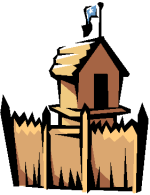
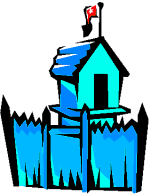
Put other team base marker on the map, new base images

diff --git a/mapgame.js b/mapgame.js
@@ -6,13 +6,23 @@ console.log('loading js file');
 var map; // the map canvas from the Google Maps v3 javascript API
 var mapZoomLevel = 18;
 var mapData; // the level data for this map (base locations)
+
 var markerLatLng;
 var itemMarker = null;
 var itemObject = null;
 var baseMarker = null;
+var otherTeamBase = null;
+// the otherTeamBase object will be of this form:
+// {
+//   location: <location_object>,
+//   marker: <marker_object>
+// }
+
 // default to the grand canyon, but this will be loaded from a map file
 var mapCenter = new google.maps.LatLng(36.151103, -113.208565);
 var baseLatLng = mapCenter; // for now the base always starts at the center of the map
+
+
 // for time-based game loop
 var now;
 var dt = 0;
@@ -99,8 +109,20 @@ var baseIcon = {
   anchor: new google.maps.Point(75, 120)
 };
 
+var otherTeamBaseIcon = {
+  url: 'images/opponent_fort.png',
+  origin: new google.maps.Point(0, 0),
+  anchor: new google.maps.Point(75, 120)
+};
+
 var baseTransparentIcon = {
   url: 'images/fort_transparent.png',
+  origin: new google.maps.Point(0, 0),
+  anchor: new google.maps.Point(75, 120)
+};
+
+var opponentBaseTransparentIcon = {
+  url: 'images/opponent_fort_transparent.png',
   origin: new google.maps.Point(0, 0),
   anchor: new google.maps.Point(75, 120)
 };
@@ -258,9 +280,21 @@ function loadMapData(mapIsReadyCallback) {
       map: map,
       position: baseLatLng,
       icon: baseIcon
-    })
+    });
+    createOtherTeamBase(mapData.map.team2BaseLatLng.lat, mapData.map.team2BaseLatLng.lng);
     randomlyPutItems();
     mapIsReadyCallback();
+  });
+}
+
+function createOtherTeamBase(lat, lng) {
+  otherTeamBase = {};
+  otherTeamBase.location = new google.maps.LatLng(lat, lng);
+  otherTeamBase.marker = new google.maps.Marker({
+    title: 'Opponent Base',
+    map: map,
+    position: otherTeamBase.location,
+    icon: otherTeamBaseIcon
   });
 }
 
@@ -294,6 +328,7 @@ function putNewItemOnMap(location, itemId) {
   // there's a bug on multiplayer joining, clear it again
   collectedItem = null;
   baseMarker.setIcon(baseTransparentIcon);
+  otherTeamBase.marker.setIcon(opponentBaseTransparentIcon);
 
   markerLatLng = location;
   itemMarker.setMap(map);
@@ -505,6 +540,7 @@ function dataReceived(data) {
       userIdOfCarWithItem = null;
       if (data.event.user_id_of_car_that_returned_item != peer.id) {
         baseMarker.setIcon(baseTransparentIcon);
+        otherTeamBase.marker.setIcon(opponentBaseTransparentIcon);
         otherUserReturnedItem(data.event.user_id_of_car_that_returned_item, data.event.now_num_items);
       }
     }
@@ -618,6 +654,7 @@ function otherUserCollectedItem(userId) {
   fadeArrowToImage('arrow_red.png');
   itemMarker.setMap(null);
   baseMarker.setIcon(baseIcon);
+  otherTeamBase.marker.setIcon(otherTeamBaseIcon);
   userIdOfCarWithItem = userId;
 }
 
@@ -627,6 +664,7 @@ function userReturnedItemToBase() {
   incrementItemCount();
   collectedItem = null;
   baseMarker.setIcon(baseTransparentIcon);
+  otherTeamBase.marker.setIcon(opponentBaseTransparentIcon);
 }
 
 function incrementItemCount() {
@@ -643,6 +681,7 @@ function userCollidedWithItem(collisionItemObject) {
   collectedItem = collisionItemObject;
   itemMarker.setMap(null);
   baseMarker.setIcon(baseIcon);
+  otherTeamBase.marker.setIcon(otherTeamBaseIcon);
   itemObject.marker = null;
   destination = baseLatLng;
 }
